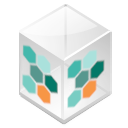
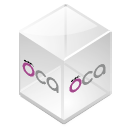
[IMP] account_invoice_report_hide_header_data: OCA-BILIZACION

Changed region(s): [[0.5, 0.375, 0.8438, 0.8438], [0.1562, 0.3438, 0.4688, 0.8125]]

diff --git a/account_invoice_report_hide_header_data/static/description/index.html b/account_invoice_report_hide_header_data/static/description/index.html
@@ -8,10 +8,11 @@
 
 /*
 :Author: David Goodger (goodger@python.org)
-:Id: $Id: html4css1.css 8954 2022-01-20 10:10:25Z milde $
+:Id: $Id: html4css1.css 9511 2024-01-13 09:50:07Z milde $
 :Copyright: This stylesheet has been placed in the public domain.
 
 Default cascading style sheet for the HTML output of Docutils.
+Despite the name, some widely supported CSS2 features are used.
 
 See https://docutils.sourceforge.io/docs/howto/html-stylesheets.html for how to
 customize this style sheet.
@@ -274,7 +275,7 @@ pre.literal-block, pre.doctest-block, pre.math, pre.code {
   margin-left: 2em ;
   margin-right: 2em }
 
-pre.code .ln { color: grey; } /* line numbers */
+pre.code .ln { color: gray; } /* line numbers */
 pre.code, code { background-color: #eeeeee }
 pre.code .comment, code .comment { color: #5C6576 }
 pre.code .keyword, code .keyword { color: #3B0D06; font-weight: bold }
@@ -300,7 +301,7 @@ span.option {
 span.pre {
   white-space: pre }
 
-span.problematic {
+span.problematic, pre.problematic {
   color: red }
 
 span.section-subtitle {
@@ -368,10 +369,8 @@ ul.auto-toc {
 !!!!!!!!!!!!!!!!!!!!!!!!!!!!!!!!!!!!!!!!!!!!!!!!!!!!
 !! source digest: sha256:198e5e2751ea5d8df6271e1ab4f9b6ebcbf38fbc3d6f89ee259384773595e965
 !!!!!!!!!!!!!!!!!!!!!!!!!!!!!!!!!!!!!!!!!!!!!!!!!!!! -->
-<p><a class="reference external image-reference" href="https://odoo-community.org/page/development-status"><img alt="Beta" src="https://img.shields.io/badge/maturity-Beta-yellow.png" /></a> <a class="reference external image-reference" href="http://www.gnu.org/licenses/lgpl-3.0-standalone.html"><img alt="License: LGPL-3" src="https://img.shields.io/badge/licence-LGPL--3-blue.png" /></a> <a class="reference external image-reference" href="https://github.com/solvosci/slv-account/tree/17.0/account_invoice_report_hide_header_data"><img alt="solvosci/slv-account" src="https://img.shields.io/badge/github-solvosci%2Fslv--account-lightgray.png?logo=github" /></a></p>
-<p>Hide header data on invoices reports like:
-- source
-- reference</p>
+<p><a class="reference external image-reference" href="https://odoo-community.org/page/development-status"><img alt="Beta" src="https://img.shields.io/badge/maturity-Beta-yellow.png" /></a> <a class="reference external image-reference" href="http://www.gnu.org/licenses/agpl-3.0-standalone.html"><img alt="License: AGPL-3" src="https://img.shields.io/badge/licence-AGPL--3-blue.png" /></a> <a class="reference external image-reference" href="https://github.com/OCA/account-invoice-reporting/tree/17.0/account_invoice_report_hide_header_data"><img alt="OCA/account-invoice-reporting" src="https://img.shields.io/badge/github-OCA%2Faccount--invoice--reporting-lightgray.png?logo=github" /></a> <a class="reference external image-reference" href="https://translation.odoo-community.org/projects/account-invoice-reporting-17-0/account-invoice-reporting-17-0-account_invoice_report_hide_header_data"><img alt="Translate me on Weblate" src="https://img.shields.io/badge/weblate-Translate%20me-F47D42.png" /></a> <a class="reference external image-reference" href="https://runboat.odoo-community.org/builds?repo=OCA/account-invoice-reporting&amp;target_branch=17.0"><img alt="Try me on Runboat" src="https://img.shields.io/badge/runboat-Try%20me-875A7B.png" /></a></p>
+<p>Hide header data on invoices reports like: - source - reference</p>
 <p><strong>Table of contents</strong></p>
 <div class="contents local topic" id="contents">
 <ul class="simple">
@@ -387,15 +386,15 @@ ul.auto-toc {
 </div>
 <div class="section" id="usage">
 <h1><a class="toc-backref" href="#toc-entry-1">Usage</a></h1>
-<p>If we want to see/hide header data in the invoice report:
-- (de)activate the check marks on “Show Header Data” block, in the account settings</p>
+<p>If we want to see/hide header data in the invoice report: - (de)activate
+the check marks on “Show Header Data” block, in the account settings</p>
 </div>
 <div class="section" id="bug-tracker">
 <h1><a class="toc-backref" href="#toc-entry-2">Bug Tracker</a></h1>
-<p>Bugs are tracked on <a class="reference external" href="https://github.com/solvosci/slv-account/issues">GitHub Issues</a>.
+<p>Bugs are tracked on <a class="reference external" href="https://github.com/OCA/account-invoice-reporting/issues">GitHub Issues</a>.
 In case of trouble, please check there if your issue has already been reported.
 If you spotted it first, help us to smash it by providing a detailed and welcomed
-<a class="reference external" href="https://github.com/solvosci/slv-account/issues/new?body=module:%20account_invoice_report_hide_header_data%0Aversion:%2017.0%0A%0A**Steps%20to%20reproduce**%0A-%20...%0A%0A**Current%20behavior**%0A%0A**Expected%20behavior**">feedback</a>.</p>
+<a class="reference external" href="https://github.com/OCA/account-invoice-reporting/issues/new?body=module:%20account_invoice_report_hide_header_data%0Aversion:%2017.0%0A%0A**Steps%20to%20reproduce**%0A-%20...%0A%0A**Current%20behavior**%0A%0A**Expected%20behavior**">feedback</a>.</p>
 <p>Do not contact contributors directly about support or help with technical issues.</p>
 </div>
 <div class="section" id="credits">
@@ -414,8 +413,15 @@ If you spotted it first, help us to smash it by providing a detailed and welcome
 </div>
 <div class="section" id="maintainers">
 <h2><a class="toc-backref" href="#toc-entry-6">Maintainers</a></h2>
-<p>This module is part of the <a class="reference external" href="https://github.com/solvosci/slv-account/tree/17.0/account_invoice_report_hide_header_data">solvosci/slv-account</a> project on GitHub.</p>
-<p>You are welcome to contribute.</p>
+<p>This module is maintained by the OCA.</p>
+<a class="reference external image-reference" href="https://odoo-community.org">
+<img alt="Odoo Community Association" src="https://odoo-community.org/logo.png" />
+</a>
+<p>OCA, or the Odoo Community Association, is a nonprofit organization whose
+mission is to support the collaborative development of Odoo features and
+promote its widespread use.</p>
+<p>This module is part of the <a class="reference external" href="https://github.com/OCA/account-invoice-reporting/tree/17.0/account_invoice_report_hide_header_data">OCA/account-invoice-reporting</a> project on GitHub.</p>
+<p>You are welcome to contribute. To learn how please visit <a class="reference external" href="https://odoo-community.org/page/Contribute">https://odoo-community.org/page/Contribute</a>.</p>
 </div>
 </div>
 </div>

diff --git a/account_invoice_report_hide_header_data/models/res_config_settings.py b/account_invoice_report_hide_header_data/models/res_config_settings.py
@@ -1,11 +1,17 @@
 # © 2025 Solvos Consultoría Informática (<http://www.solvos.es>)
-# License LGPL-3 - See http://www.gnu.org/licenses/lgpl-3.0.html
+# License AGPL-3.0 or later (http://www.gnu.org/licenses/agpl).
 
-from odoo import models, fields
+from odoo import fields, models
 
 
 class ResConfigSettings(models.TransientModel):
     _inherit = "res.config.settings"
 
-    group_source_on_invoice_reports = fields.Boolean(string="Source", implied_group="account_invoice_report_hide_header_data.group_source_on_invoice_report")
-    group_reference_on_invoice_reports = fields.Boolean(string="Reference", implied_group="account_invoice_report_hide_header_data.group_reference_on_invoice_report")
+    group_source_on_invoice_reports = fields.Boolean(
+        string="Source",
+        implied_group="account_invoice_report_hide_header_data.group_source_on_invoice_report",
+    )
+    group_reference_on_invoice_reports = fields.Boolean(
+        string="Reference",
+        implied_group="account_invoice_report_hide_header_data.group_reference_on_invoice_report",
+    )

diff --git a/account_invoice_report_hide_header_data/__manifest__.py b/account_invoice_report_hide_header_data/__manifest__.py
@@ -1,5 +1,5 @@
 # © 2025 Solvos Consultoría Informática (<http://www.solvos.es>)
-# License LGPL-3 - See http://www.gnu.org/licenses/lgpl-3.0.html
+# License AGPL-3.0 or later (http://www.gnu.org/licenses/agpl).
 {
     "name": "Account Invoice Report Hide Header Data",
     "summary": """
@@ -7,16 +7,16 @@
         - source
         - reference
     """,
-    "author": "Solvos",
-    "license": "LGPL-3",
+    "author": "Solvos," "Odoo Community Association (OCA)",
+    "license": "AGPL-3",
     "version": "17.0.1.0.0",
-    'category': "Accounting & Finance",
-    "website": "https://github.com/solvosci/slv-account",
+    "category": "Accounting & Finance",
+    "website": "https://github.com/OCA/account-invoice-reporting",
     "depends": ["account"],
     "data": [
         "security/account_security.xml",
         "views/res_config_settings_views.xml",
         "reports/account_invoice_template.xml",
     ],
-    'installable': True,
+    "installable": True,
 }

diff --git a/account_invoice_report_hide_header_data/models/__init__.py b/account_invoice_report_hide_header_data/models/__init__.py
@@ -1,1 +1,3 @@
+# License AGPL-3.0 or later (http://www.gnu.org/licenses/agpl).
+
 from . import res_config_settings

diff --git a/account_invoice_report_hide_header_data/__init__.py b/account_invoice_report_hide_header_data/__init__.py
@@ -1,1 +1,3 @@
+# License AGPL-3.0 or later (http://www.gnu.org/licenses/agpl).
+
 from . import models

diff --git a/account_invoice_report_hide_header_data/README.rst b/account_invoice_report_hide_header_data/README.rst
@@ -13,18 +13,22 @@ Account Invoice Report Hide Header Data
 .. |badge1| image:: https://img.shields.io/badge/maturity-Beta-yellow.png
     :target: https://odoo-community.org/page/development-status
     :alt: Beta
-.. |badge2| image:: https://img.shields.io/badge/licence-LGPL--3-blue.png
-    :target: http://www.gnu.org/licenses/lgpl-3.0-standalone.html
-    :alt: License: LGPL-3
-.. |badge3| image:: https://img.shields.io/badge/github-solvosci%2Fslv--account-lightgray.png?logo=github
-    :target: https://github.com/solvosci/slv-account/tree/17.0/account_invoice_report_hide_header_data
-    :alt: solvosci/slv-account
+.. |badge2| image:: https://img.shields.io/badge/licence-AGPL--3-blue.png
+    :target: http://www.gnu.org/licenses/agpl-3.0-standalone.html
+    :alt: License: AGPL-3
+.. |badge3| image:: https://img.shields.io/badge/github-OCA%2Faccount--invoice--reporting-lightgray.png?logo=github
+    :target: https://github.com/OCA/account-invoice-reporting/tree/17.0/account_invoice_report_hide_header_data
+    :alt: OCA/account-invoice-reporting
+.. |badge4| image:: https://img.shields.io/badge/weblate-Translate%20me-F47D42.png
+    :target: https://translation.odoo-community.org/projects/account-invoice-reporting-17-0/account-invoice-reporting-17-0-account_invoice_report_hide_header_data
+    :alt: Translate me on Weblate
+.. |badge5| image:: https://img.shields.io/badge/runboat-Try%20me-875A7B.png
+    :target: https://runboat.odoo-community.org/builds?repo=OCA/account-invoice-reporting&target_branch=17.0
+    :alt: Try me on Runboat
 
-|badge1| |badge2| |badge3|
+|badge1| |badge2| |badge3| |badge4| |badge5|
 
-Hide header data on invoices reports like:
-- source
-- reference
+Hide header data on invoices reports like: - source - reference
 
 **Table of contents**
 
@@ -34,16 +38,16 @@ Hide header data on invoices reports like:
 Usage
 =====
 
-If we want to see/hide header data in the invoice report:
-- (de)activate the check marks on "Show Header Data" block, in the account settings
+If we want to see/hide header data in the invoice report: - (de)activate
+the check marks on "Show Header Data" block, in the account settings
 
 Bug Tracker
 ===========
 
-Bugs are tracked on `GitHub Issues <https://github.com/solvosci/slv-account/issues>`_.
+Bugs are tracked on `GitHub Issues <https://github.com/OCA/account-invoice-reporting/issues>`_.
 In case of trouble, please check there if your issue has already been reported.
 If you spotted it first, help us to smash it by providing a detailed and welcomed
-`feedback <https://github.com/solvosci/slv-account/issues/new?body=module:%20account_invoice_report_hide_header_data%0Aversion:%2017.0%0A%0A**Steps%20to%20reproduce**%0A-%20...%0A%0A**Current%20behavior**%0A%0A**Expected%20behavior**>`_.
+`feedback <https://github.com/OCA/account-invoice-reporting/issues/new?body=module:%20account_invoice_report_hide_header_data%0Aversion:%2017.0%0A%0A**Steps%20to%20reproduce**%0A-%20...%0A%0A**Current%20behavior**%0A%0A**Expected%20behavior**>`_.
 
 Do not contact contributors directly about support or help with technical issues.
 
@@ -51,18 +55,28 @@ Credits
 =======
 
 Authors
-~~~~~~~
+-------
 
 * Solvos
 
 Contributors
-~~~~~~~~~~~~
+------------
 
-* Iria Alonso <iria.alonso@solvos.es>
+-  Iria Alonso <iria.alonso@solvos.es>
 
 Maintainers
-~~~~~~~~~~~
+-----------
 
-This module is part of the `solvosci/slv-account <https://github.com/solvosci/slv-account/tree/17.0/account_invoice_report_hide_header_data>`_ project on GitHub.
+This module is maintained by the OCA.
 
-You are welcome to contribute.
+.. image:: https://odoo-community.org/logo.png
+   :alt: Odoo Community Association
+   :target: https://odoo-community.org
+
+OCA, or the Odoo Community Association, is a nonprofit organization whose
+mission is to support the collaborative development of Odoo features and
+promote its widespread use.
+
+This module is part of the `OCA/account-invoice-reporting <https://github.com/OCA/account-invoice-reporting/tree/17.0/account_invoice_report_hide_header_data>`_ project on GitHub.
+
+You are welcome to contribute. To learn how please visit https://odoo-community.org/page/Contribute.

diff --git a/account_invoice_report_hide_header_data/readme/USAGE.md b/account_invoice_report_hide_header_data/readme/USAGE.md
@@ -1,0 +1,2 @@
+If we want to see/hide header data in the invoice report: - (de)activate
+the check marks on "Show Header Data" block, in the account settings

diff --git a/account_invoice_report_hide_header_data/readme/DESCRIPTION.md b/account_invoice_report_hide_header_data/readme/DESCRIPTION.md
@@ -1,0 +1,1 @@
+Hide header data on invoices reports like: - source - reference

diff --git a/account_invoice_report_hide_header_data/readme/CONTRIBUTORS.md b/account_invoice_report_hide_header_data/readme/CONTRIBUTORS.md
@@ -1,0 +1,1 @@
+- Iria Alonso \<<iria.alonso@solvos.es>\>
